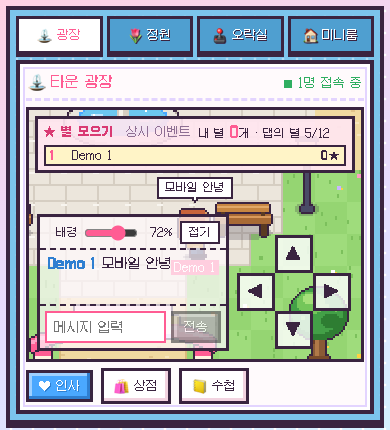
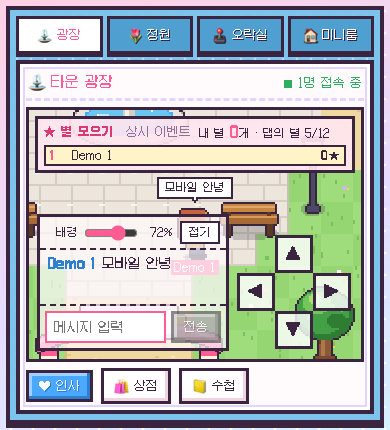
테스트: 100명 채널 분할 측정과 펫 표시 검증, 재개 수정 결과 문서화
- 통합 테스트에 opt-in 100명 측정(PIXELTOWN_LOAD_100=1) 추가: 채널 방 4개(32/32/32/4) 자동 분할, 입력 9.85Hz, 방 안 채팅 p95 45ms
- UI 검사에 정면 방향 펫 오프셋 단언 추가
- 단위19·통합16·UI7·build 재실행 결과와 스크린샷 갱신
- STATUS·TECH_SPEC·verification·README에 audit 해결, 100명 범위, launcher 변경, 남은 외부 의존 항목 기록

diff --git a/docs/03_PROJECT_STATUS.md b/docs/03_PROJECT_STATUS.md
@@ -42,8 +42,8 @@
 
 ## 5. 막힘 / 알려진 문제
 
-- `nanoid 2.x` 전이 의존성 관련 audit 3건(2 moderate, 1 high). 실제 서버에서 ID 크기는 상수로 지정한다. Colyseus 0.16/클라이언트 호환성 때문에 무리한 override를 하지 않았다. 공개 인터넷 서비스 전 최신 호환 client/server 업그레이드와 재검증 필요. 개발 전용 loopback 서버에 한정한다.
-- 실제 iPhone/Android 가상 키보드·성능, 외부 배포·TLS·지속 운영, 100명은 미검증이다.
+- 해결: `nanoid 2.x` audit 3건은 같은 API의 로컬 대체 모듈(`colyseus/vendor/nanoid`) override로 0건이 되었다. Colyseus 0.17+로 올리면 override를 제거한다.
+- 실제 iPhone/Android 가상 키보드·성능, 외부 배포·TLS·지속 운영은 미검증이다. 100명은 로컬 단일 머신에서 채널 방 자동 분할(32/32/32/4)까지만 측정했다(통합 opt-in). 한 화면 100명 동시 표시는 지원하지 않는다.
 - 클라이언트 예측 없이 서버 50ms snapshot을 보간한다. localhost에서는 자연스러웠으나 인터넷 지연 조작감은 미측정이다.
 - 그래픽은 절차 도트다. 사용자 디자인 승인 전이며 피드백에 따라 팔레트·소품을 조정한다.
 - 이미 열려 있던 구 버전 탭이 제거된 `startGame`을 보내면 Colyseus가 연결을 끊는다. 새로고침하면 된다.
@@ -52,9 +52,9 @@
 
 ## 6. 다음 작업
 
-1. 사용자 디자인 검토 피드백을 반영하고, 승인되면 PR·merge를 별도 요청으로 진행한다.
-2. 초기 데모 완료 후 100명 요구가 확정되면 delta snapshot·방 분할·관심 영역과 실제 인터넷 지연을 측정한다.
-3. 외부 배포 전 서버/클라이언트 버전 업그레이드와 실기기 키보드 검증을 수행한다.
+1. 사용자 디자인 검토 피드백을 반영한다(승인 대기).
+2. 한 장소 32명 초과를 한 화면에 보여야 하는 요구가 확정되면 delta snapshot·관심 영역을 설계한다. 현재는 채널 방 자동 분할이다.
+3. 외부 배포·실기기 키보드·인터넷 지연 측정은 배포 환경과 실기기가 필요하다. 이 개발 세션은 loopback·운영 인증 금지 정책으로 수행하지 않는다. 외부 배포 전 Colyseus 0.17+ 업그레이드를 검토한다.
 4. PWA·앱 포장은 웹 핵심 플레이 검증 후 별도 계획으로 다룬다.
 
 ## 7. 인수인계
@@ -67,6 +67,7 @@ UI에서 `sort:-created` 조회가 400인 문제를 발견했다. 신규 PocketB
 
 ## 8. 변경된 계약
 
+- 2026-10-02 재개: 정면 볼 때 펫을 주인 옆에 배치, `colyseus/vendor/nanoid` override, 통합 opt-in `hundred_client_local_room_split`, `scripts/dev.mjs`·`dev-backend.mjs`가 자식 종료를 기다린 뒤 끝나도록 변경(PocketBase 종료가 늦을 때 포트가 남아 재시작이 거부되던 문제).
 - PLAN-003: `startGame` 메시지 제거, 별 30초 라운드 → 상시 이벤트(6초 생성·3분 정산·0점 미기록·별 유지). 메시지 `look` 추가, player에 `look`, game에 `id`. PB `purchases` 컬렉션과 profiles `outfit`/`room` 필드, `/api/pixeltown/shop/{buy,equip,room}` 훅. `shared/catalog.json` 추가. 구 `scripts/verify-backend.mjs`·`verify-stars.mjs` 제거(통합 테스트로 대체).
 - 재제작(PLAN-002): 월드 960×640 단일 지형 → 장소별 640×416 타일맵. 수집 거리 32 → 16도트, 서버 틱 100 → 50ms, 이동 3도트/틱. `joinOrCreate` 옵션에 `entry` 추가(고정 입구 이름만 허용). 충돌 정본이 `colyseus/town.js`에서 `shared/world.js`로 이동.
 
@@ -83,8 +84,8 @@ UI에서 `sort:-created` 조회가 400인 문제를 발견했다. 신규 PocketB
 
 | 항목 | 결과 | 근거 | 날짜 | 리비전 | 유효성 | 출처 / 공백 |
 |---|---|---|---|---|---|---|
-| 단위 18개(맵·깊이·충돌 9, 상점·미니룸 4 포함) | PASS | RECHECKED | 2026-10-02 | `965d266` | CURRENT | `npm --prefix colyseus test` |
-| 통합 15개(별도 포트 18191/12668, 상점 2) | PASS | RECHECKED | 2026-10-02 | `965d266` | CURRENT | `tests/report.json` |
+| 단위 19개(맵·깊이·충돌 9, 상점·미니룸 4, nanoid 1 포함) | PASS | RECHECKED | 2026-10-02 | `5899605`+재개 수정 | CURRENT | `npm --prefix colyseus test` |
+| 통합 15개 + 100명 opt-in 1개(별도 포트 18191/12668) | PASS | RECHECKED | 2026-10-02 | `5899605`+재개 수정 | CURRENT | `tests/report.json` |
 | 브라우저 UI 7개 | PASS | RECHECKED | 2026-10-02 | `965d266` | CURRENT | `tests/ui-report.json`, `docs/assets/`, verification.md |
 | 깊이·충돌·맵 AC-014/015 | PASS | RECHECKED | 2026-10-02 | `965d266` | CURRENT | 실제 클릭·방향키 이동 좌표와 앞/뒤 스크린샷 |
 | 도트 스케일·4 뷰포트 AC-011/016 | PASS | RECHECKED | 2026-10-02 | `965d266` | CURRENT | scroll=viewport, 정수 배율 3/6, smoothing false |
@@ -92,9 +93,13 @@ UI에서 `sort:-created` 조회가 400인 문제를 발견했다. 신규 PocketB
 | 상점·옷장·펫·미니룸 AC-017–019 | PASS | RECHECKED | 2026-10-02 | `965d266` | CURRENT | 통합 위조·동시 구매, 브라우저 2유저 |
 | 클릭 이동·큰 채팅 AC-020 | PASS | RECHECKED | 2026-10-02 | `965d266` | CURRENT | 채팅 위 클릭·키 취소·막힌 곳 |
 | 빌드 | PASS | RECHECKED | 2026-10-02 | `965d266` | CURRENT | `npm run build` |
+| 미니룸·정면 펫 가림 수정 | PASS | RECHECKED | 2026-10-02 | `5899605`+재개 수정 | CURRENT | UI `petFacingDown` dx −14, 스크린샷 |
+| npm audit(루트·colyseus) | PASS | RECHECKED | 2026-10-02 | `5899605`+재개 수정 | CURRENT | 0건, `npm ci` 재현, `test/ids.test.js` |
+| 100명 로컬 채널 분할 | PASS | RECHECKED | 2026-10-02 | `5899605`+재개 수정 | CURRENT | `PIXELTOWN_LOAD_100=1`, `tests/report.json` load100 |
+| launcher 종료 시 포트 해제 | PASS | RECHECKED | 2026-10-02 | `5899605`+재개 수정 | CURRENT | SIGTERM 후 launcher 종료 시점에 3포트 비어 있음 |
 | 디자인 승인 | PENDING | NONE | - | - | UNKNOWN | 사용자 판단 |
 | 실제 모바일 기기·키보드 | NOT_RUN | NONE | - | - | UNKNOWN | 에뮬레이션만 |
-| 인터넷 성능·100명·운영 배포 | NOT_RUN | NONE | - | - | UNKNOWN | 범위 밖 |
+| 인터넷 지연·운영 배포·한 화면 100명 | NOT_RUN | NONE | - | - | UNKNOWN | 배포 환경 필요, 범위 밖 |
 
 거절판(`9bc3d66`)의 화면 증거는 삭제했고 백엔드 검증은 위 재실행으로 대체했다.
 

diff --git a/docs/02_TECH_SPEC.md b/docs/02_TECH_SPEC.md
@@ -15,7 +15,7 @@
 | 실행·seed | scripts/dev.mjs, dev-backend.mjs, init-pocketbase.mjs | macOS/Linux, curl/unzip, 바이너리 SHA-256 확인, localhost 제한 |
 | 검증 | tests/integration.mjs, tests/report.json | 별도 PB 데이터·outbox, 자기 프로세스만 관리 |
 
-라이브러리의 최신 버전 안내가 아니라 이 저장소의 설치·구현 계약이다. Colyseus 0.16 호환성에 따른 dependency 취약점 설명은 PROJECT_STATUS와 colyseus/README.md를 확인하고 공개 배포 판단 전에 실제 audit 결과를 검토한다. 이 문서는 audit 통과를 주장하지 않는다.
+라이브러리의 최신 버전 안내가 아니라 이 저장소의 설치·구현 계약이다. Colyseus 0.16의 `nanoid 2.x` 취약 의존성은 `colyseus/vendor/nanoid` 로컬 대체 모듈로 override했다(colyseus/README.md). 2026-10-02 기준 루트·colyseus `npm audit` 0건이며, 공개 배포 판단 전에는 audit을 다시 실행한다.
 
 ## 2. 아키텍처
 
@@ -94,7 +94,7 @@ DB number min0 제약 외에 commit 훅은 개인 점수 정수 0–64와 전체
 
 `startGame` 메시지는 제거했다. Colyseus는 등록되지 않은 메시지를 보낸 클라이언트의 연결을 끊는다.
 
-player는 `{id,name,x,y,color,look:{hat,top,pet}}`(look은 카탈로그 슬롯이 맞는 값만, 나머지 null). game은 `{id,active,endsAt,stars:[{id,x,y}],scores:{[userId]:integer}}`, `id`는 현재 정산 기간 match_id, `endsAt`은 다음 정산 시각. persistence는 `{status:'pending'|'saved',pending,lastError}`이며 전체 outbox 상태이므로 특정 매치만의 상태는 아니다.
+player는 `{id,name,x,y,color,look:{hat,top,pet}}`(look은 카탈로그 슬롯이 맞는 값만, 나머지 null). 펫은 화면에서만 주인을 따라가며, 주인이 아래(정면)를 볼 때는 몸에 가리지 않도록 옆(-14,-3도트)에 선다. game은 `{id,active,endsAt,stars:[{id,x,y}],scores:{[userId]:integer}}`, `id`는 현재 정산 기간 match_id, `endsAt`은 다음 정산 시각. persistence는 `{status:'pending'|'saved',pending,lastError}`이며 전체 outbox 상태이므로 특정 매치만의 상태는 아니다.
 
 서버는 50ms마다 `moveActor(map,x,y,dx,dy,3)`을 적용하며 입력이 300ms보다 오래되면 움직이지 않는다. 이동은 1.5도트 이하로 쪼개 축별로 미끄러지고, 한 축만 막히면 수직 방향 6도트 이내 빈틈으로 비켜 간다. 플레이어 발 상자 10×6이 막힌 타일·소품 footprint·맵 경계와 겹치면 막힌다. 별은 `spreadSpot`이 `starSpots`(시작점에서 닿고 sort 소품 그림에 가리지 않은 타일 중심) 후보 24개 중 기존 별·플레이어와 가장 먼 곳을 고른다. 이벤트는 첫 입장 때 시작해 계속된다. 최소 5개를 채우고, `STAR_SPAWN_INTERVAL_MS`(기본 6000, 1000..60000)마다 상한 12 미만이면 1개 생성한다. `GAME_DURATION_MS`(기본 180000, 1000..300000)마다 `settle`: 점수 1 이상인 사람만 outbox에 넣고 `gameEnded`를 보낸 뒤, 별을 유지한 채 새 match_id·0점으로 다음 기간을 시작한다. 기간 합계가 64(`MAX_MATCH_SCORE`)에 닿으면 즉시 정산하고, 정산 대기 중 64를 넘는 수집은 거부한다. 전원 이탈·dispose 때 정산하고 멈춘다. 진행 중 합류자를 scores에 등록하고 이탈자의 점수는 정산까지 유지한다. solo 연습도 최소5·6초·상한12와 충돌을 적용하며 DB 보상은 없다.
 
@@ -187,4 +187,4 @@ macOS start.command도 로컬 실행 진입점이다. dev:all은 기본 PB 18090
 
 테스트 날짜·리비전·결과·미실행 공백은 PROJECT_STATUS와 verification.md에서 관리한다.
 
-20명 smoke는 약 3초 입력 workload·10Hz 목표·단일 로컬 머신 기능 점검이다. 100명이나 인터넷 지연·실제 모바일 FPS를 보증하지 않는다. 이후 규모 확대는 schema delta/관심 영역, 방 분할, PB 저장량, 네트워크·CPU·모바일 렌더링 측정 후 결정한다. 공개 GitHub source push와 운영 배포를 구분한다.
+20명 smoke는 약 3초 입력 workload·10Hz 목표·단일 로컬 머신 기능 점검이다. `PIXELTOWN_LOAD_100=1`이면 100명을 한 장소에 넣어 `filterBy(['zone'])`·`maxClients=32`에 의한 채널 방 자동 분할(32/32/32/4)과 방별 snapshot·채팅을 추가로 측정한다. 다른 채널 방의 사용자는 서로 보이지 않는다. 인터넷 지연·실제 모바일 FPS·운영 수용량은 보증하지 않는다. 이후 규모 확대는 schema delta/관심 영역, 방 분할, PB 저장량, 네트워크·CPU·모바일 렌더링 측정 후 결정한다. 공개 GitHub source push와 운영 배포를 구분한다.

diff --git a/docs/verification.md b/docs/verification.md
@@ -8,14 +8,16 @@
 
 | 명령 | 결과 | 내용 |
 |---|---|---|
-| `npm --prefix colyseus test` | 18/18 | outbox·별 상한·정산·PB 훅 5개, 맵·깊이·충돌 9개, 상점 카탈로그·미니룸 규칙(화면·훅 대조)·미니룸 맵·look 4개 |
-| `PIXELTOWN_TEST_PB_PORT=18191 PIXELTOWN_TEST_GAME_PORT=12668 npm run test:integration` | 15/15 | [tests/report.json](../tests/report.json) — 상점 2개 추가 |
+| `npm --prefix colyseus test` | 19/19 | outbox·별 상한·정산·PB 훅 5개, 맵·깊이·충돌 9개, 상점 카탈로그·미니룸 규칙(화면·훅 대조)·미니룸 맵·look 4개, nanoid 대체 모듈 1개 |
+| `PIXELTOWN_LOAD_100=1 PIXELTOWN_TEST_PB_PORT=18191 PIXELTOWN_TEST_GAME_PORT=12668 npm run test:integration` | 16/16 | [tests/report.json](../tests/report.json) — 기본 15개 + 100명 채널 분할 opt-in 1개 |
 | `CHROME_PATH=… PIXELTOWN_WEB_PORT=5173 PIXELTOWN_PB_PORT=18090 node tests/ui-check.mjs` | 7/7 | [tests/ui-report.json](../tests/ui-report.json), 스크린샷 `docs/assets/` |
 | `npm run build` | 통과 | JS 459KB(gzip 146KB), Galmuri11 woff2 2개 671KB |
 
 신규 단위 테스트(`colyseus/test/world.test.js`): 세 장소 모두 입구가 비어 있음, 걷는 8도트 칸 전부가 시작점과 연결(고립 0), 출입구 도달 가능, 세 맵의 타일·소품 구성이 서로 다름, 모든 footprint가 그림 안·그림 넓이 60% 미만·발선에 붙음, 나무 수관 아래 통과·밑동 차단, 건물 벽 바닥 차단·지붕 뒤 잔디 도달, 물·오락실 벽 차단·다리 횡단, 밑동 모서리 비켜가기, 오락기 섬 뒤 통과, 서버 입구 이름 검증(`__proto__` 등 거부).
 
-통합 테스트 주요 수치(생성 1.5초·정산 30초로 단축): 별 5 → 생성 간격 1528–1539ms → 10.1초에 12개 → 3.1초간 12 유지 → 회수 후 329ms에 새 ID로 12 복귀, 12개일 때 별 사이 최소 거리 115도트, 정산 직후 같은 별로 다음 기간 계속. 점수 있는 사람만 결과 행(0점 행 0개). 20명 smoke: 입장 58ms, 입력 600개(클라이언트당 9.9Hz), snapshot 최소 59회, 채팅 p95 42ms. 단일 머신 짧은 기능 점검이며 수용량 측정이 아니다.
+통합 테스트 주요 수치(생성 1.5초·정산 30초로 단축): 별 5 → 생성 간격 1500–1550ms → 10.1초에 12개 → 3.1초간 12 유지 → 회수 후 1037ms에 새 ID로 12 복귀, 12개일 때 별 사이 최소 거리 102도트, 정산 직후 같은 별로 다음 기간 계속. 점수 있는 사람만 결과 행(0점 행 0개). 20명 smoke: 입장 58ms, 입력 600개(클라이언트당 9.9Hz), snapshot 최소 58회, 채팅 p95 43ms. 단일 머신 짧은 기능 점검이며 수용량 측정이 아니다. 채팅 지연 값은 테스트의 40ms 폴링 해상도에 묶인다.
+
+100명 로컬 측정(`PIXELTOWN_LOAD_100=1`, opt-in): 100명이 광장에 입장하면 채널 방 4개(32/32/32/4)로 자동 분할된다. 모든 클라이언트가 자기 방 인원만 정확히 본다. 입장 285 ms, 입력 3000개(클라이언트당 9.85 Hz), snapshot 최소 59회, 방 안 채팅 p95 45ms. 다른 채널 방 사람은 서로 보이지 않는다. 인터넷·운영 수용량 측정이 아니다.
 
 ## 2. 깊이·충돌 (AC-014) — 실제 브라우저에서 클릭 이동과 방향키로 확인
 
@@ -128,6 +130,7 @@ Demo 1이 오락실에 들어가자 시작 버튼 없이 바로 진행 중이었
 ## 9. 미실행·한계
 
 - 실제 iPhone/Android 기기, OS 가상 키보드, 저사양 기기 FPS는 확인하지 않았다. 브라우저 모바일 에뮬레이션(DPR3, touch)만 사용했다.
+- 미니룸 캡처에서 펫이 주인 몸 뒤에 완전히 가리던 문제(정면을 볼 때 펫 목표가 주인 바로 북쪽)를 고쳤다. UI 검사가 정면 방향 펫 오프셋(dx −14)을 단언한다.
 - 클라이언트 예측이 없다. localhost에서는 50ms 틱 보간으로 충분했지만 인터넷 지연 환경의 조작감은 측정하지 않았다.
 - 디자인 승인은 사용자 판단 대상이다. 위 스크린샷이 판단 자료다.
 - 연습 모드(혼자 둘러보기)는 이동·별 생성·연습 점수만 확인했고 서버 기록은 만들지 않는다. 연습 모드에는 상점·미니룸이 없다.
